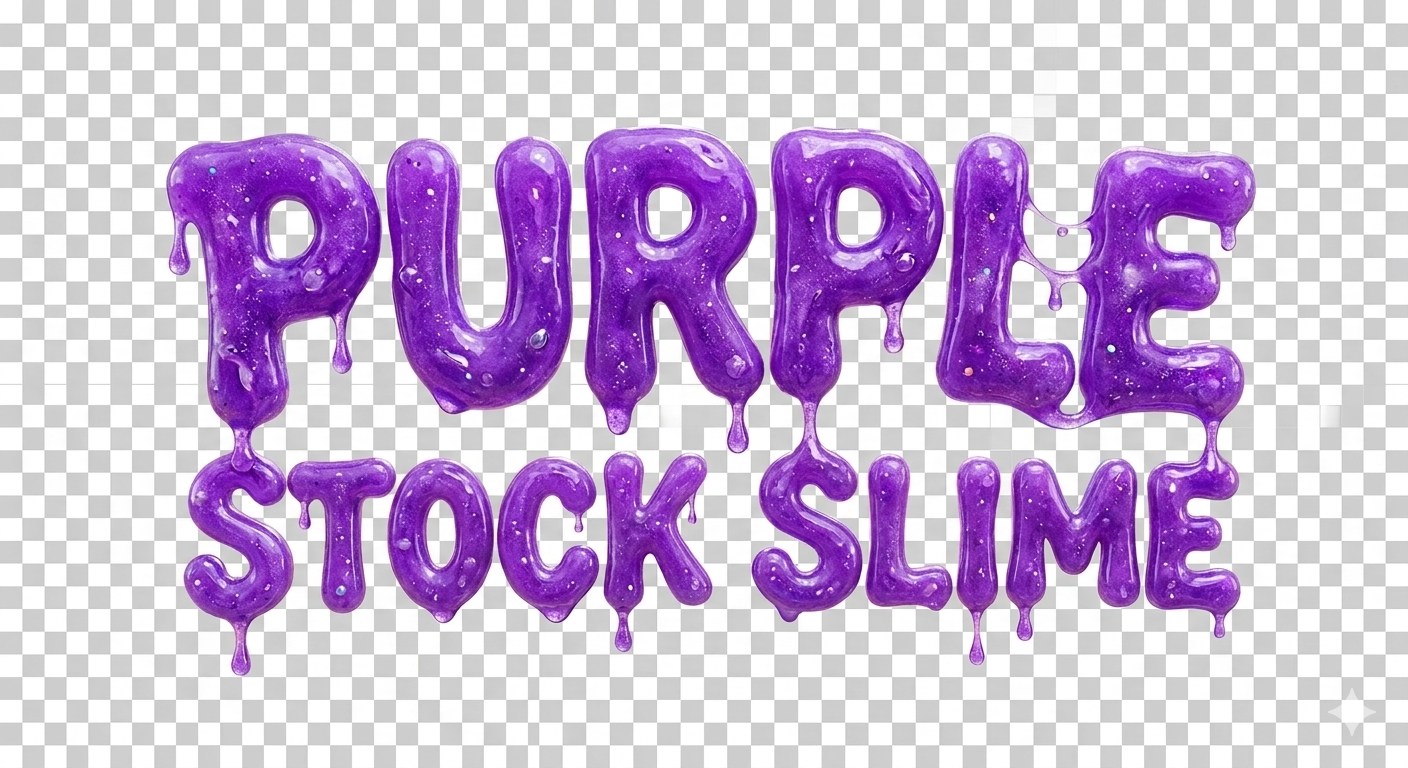
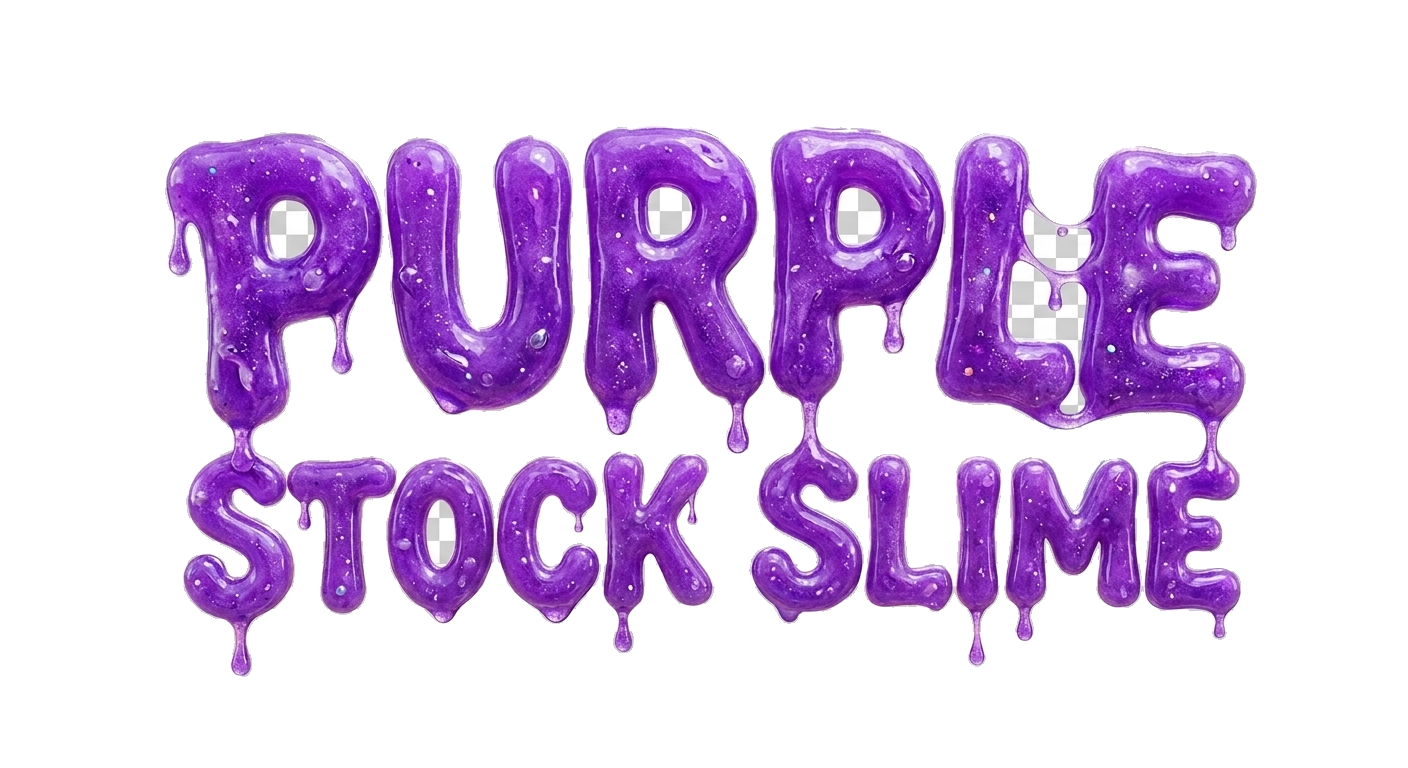
fix(shell): 슬라임 간판 — 배경 투명화 + 검색바와 한 묶음 합성
PNG 원본이 RGBA긴 했지만 알파가 전부 255라 체커보드 배경이 그대로 보였음.
코너 flood-fill로 저채도·고명도 배경 픽셀만 알파 0 처리 → 진짜 투명.

배치도 수정: 별도 빌보드 행 대신 헤더 중앙 컬럼에 검색바와 함께
.psl-search-stack 으로 묶음. 슬라임 폭을 검색바와 같은 460-480px로 맞추고
음의 margin-bottom(-14px)으로 드립이 검색창 위로 흘러내리게 합성.
헤더 고정 64px 높이 해제, drop-shadow 퍼플 톤 추가.

diff --git a/frontend/app/globals.css b/frontend/app/globals.css
@@ -1168,13 +1168,12 @@ body {
   background: var(--surface);
 }
 
-/* ── AppHeader (64px) ── */
+/* ── AppHeader — 가운데 컬럼이 슬라임 간판+검색바를 세로로 쌓음 ── */
 .psl-header {
   display: flex;
   align-items: center;
   gap: 16px;
-  padding: 10px 24px;
-  height: 64px;
+  padding: 14px 24px 16px;
   background: var(--surface);
   border-bottom: 1px solid var(--line);
   position: sticky;
@@ -1509,29 +1508,35 @@ body {
   margin-top: 2px;
 }
 
-/* ── 간판 로고 (Billboard) — 검색창 위 가운데 정렬 ── */
-.psl-billboard {
+/* ── 간판 로고 (Billboard) — 검색창과 한 묶음, 드립이 검색바로 흘러내림 ── */
+.psl-search-stack {
   display: flex;
-  justify-content: center;
+  flex-direction: column;
   align-items: center;
-  padding: 18px 24px 6px;
-  background: var(--surface);
+  gap: 0;
+  width: min(480px, 100%);
 }
 .psl-billboard-link {
   display: inline-flex;
+  justify-content: center;
   line-height: 0;
-  transition: transform 160ms ease, filter 160ms ease;
+  width: 100%;
+  /* 슬라임 드립이 검색바 위로 자연스럽게 내려앉도록 음의 마진 */
+  margin-bottom: -14px;
+  transition: transform 160ms ease, filter 220ms ease;
+  filter: drop-shadow(0 4px 10px rgba(113, 50, 245, 0.18));
 }
 .psl-billboard-link:hover {
   transform: translateY(-1px);
-  filter: drop-shadow(0 6px 18px rgba(113, 50, 245, 0.28));
+  filter: drop-shadow(0 8px 22px rgba(113, 50, 245, 0.34));
 }
 .psl-billboard-img {
   display: block;
-  width: clamp(260px, 32vw, 440px);
+  width: clamp(220px, 28vw, 360px);
   height: auto;
   user-select: none;
   -webkit-user-drag: none;
+  pointer-events: none;
 }
 
 /* ── Responsive ── */
@@ -1543,7 +1548,8 @@ body {
   .psl-header-right .psl-clock { display: none; }
   .psl-search { max-width: none; }
   .psl-logo-text { display: none; }
-  .psl-billboard { padding: 12px 16px 4px; }
-  .psl-billboard-img { width: clamp(220px, 64vw, 320px); }
+  .psl-search-stack { width: 100%; }
+  .psl-billboard-img { width: clamp(180px, 56vw, 280px); }
+  .psl-billboard-link { margin-bottom: -10px; }
 }
 

diff --git a/frontend/components/Shell/AppHeader.tsx b/frontend/components/Shell/AppHeader.tsx
@@ -16,19 +16,6 @@ export default function AppHeader() {
 
   return (
     <>
-      {/* 간판 로고 — 사이트 아이덴티티 (검색창 위 가운데 정렬) */}
-      <div className="psl-billboard">
-        <Link href="/" aria-label="PURPLE STOCK SLIME 홈" className="psl-billboard-link">
-          {/* eslint-disable-next-line @next/next/no-img-element */}
-          <img
-            src="/images/purple-stock-slime.png"
-            alt="PURPLE STOCK SLIME"
-            className="psl-billboard-img"
-            draggable={false}
-          />
-        </Link>
-      </div>
-
       <header className="psl-header">
         <button
           type="button"
@@ -46,7 +33,19 @@ export default function AppHeader() {
         </div>
 
         <div className="psl-header-mid">
-          <SearchBar />
+          <div className="psl-search-stack">
+            {/* 간판 로고 — 검색창 위에 찰떡으로 얹힘 (드립이 검색바로 흘러내림) */}
+            <Link href="/" aria-label="PURPLE STOCK SLIME 홈" className="psl-billboard-link">
+              {/* eslint-disable-next-line @next/next/no-img-element */}
+              <img
+                src="/images/purple-stock-slime.png"
+                alt="PURPLE STOCK SLIME"
+                className="psl-billboard-img"
+                draggable={false}
+              />
+            </Link>
+            <SearchBar />
+          </div>
         </div>
 
         <div className="psl-header-right">
